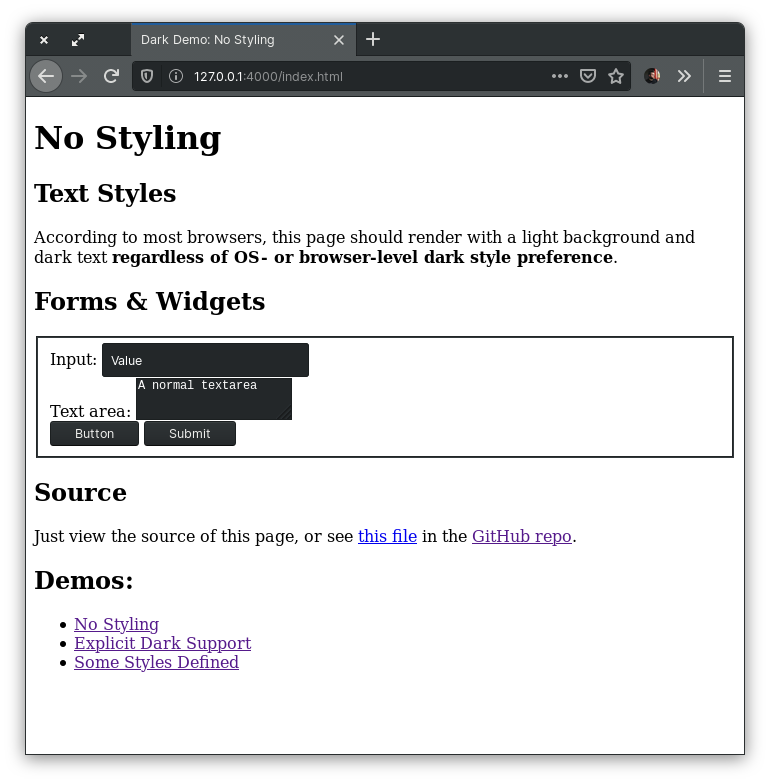
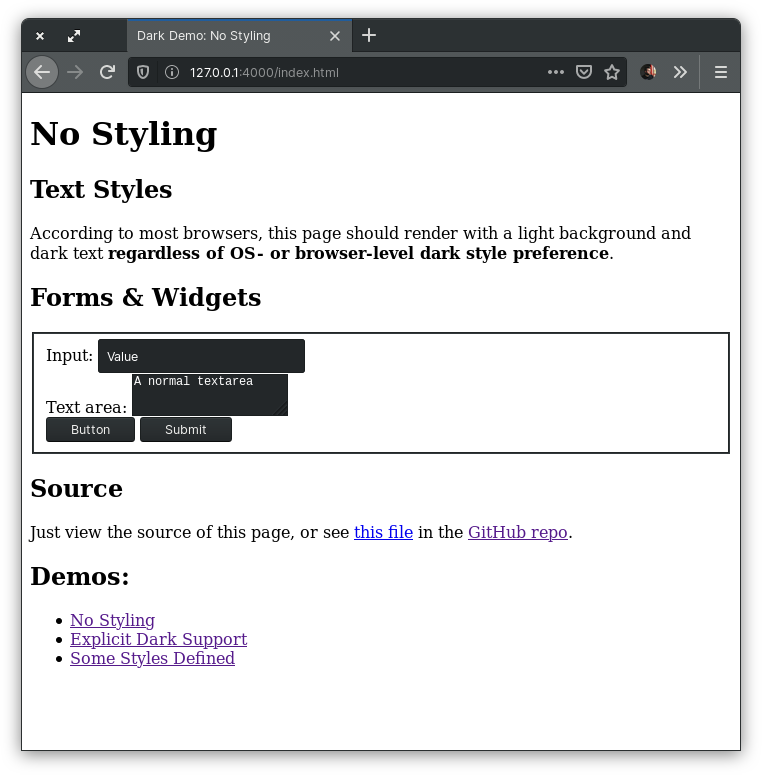
Add updated Firefox screenshots, update styling

Changed region(s): [[0.0302, 0.0, 0.9961, 0.991]]

diff --git a/_layouts/default.html b/_layouts/default.html
@@ -21,8 +21,16 @@
         width: calc(50% - 1em);
       }
 
+      img.mobile,
+      img.shadow {
+        border-radius: 0.2em;
+        border: 1px solid rgba(64, 64, 64, 0.5);
+        border-top-color: rgba(128, 128, 128, 0.5);
+        border-bottom-color: rgba(32, 32, 32, 0.5);
+        box-shadow: 0 0.25em 0.75em rgba(0, 0, 0, 0.5);
+      }
+
       img.mobile {
-        box-shadow: 0 0.25em 0.5em rgba(0, 0, 0, 0.5);
         max-width: 300px;
       }
 
@@ -63,8 +71,8 @@
     <img src="images/Firefox-Dark-{{ slug }}.png" alt="Firefox Linux Dark" />
 
     <h3>WebKitGTK on Linux:</h3>
-    <img src="images/Ephemeral-Light-{{ slug }}.png" alt="Ephemeral Linux Light" />
-    <img src="images/Ephemeral-Dark-{{ slug }}.png" alt="Ephemeral Linux Dark" />
+    <img class="shadow" src="images/Ephemeral-Light-{{ slug }}.png" alt="Ephemeral Linux Light" />
+    <img class="shadow" src="images/Ephemeral-Dark-{{ slug }}.png" alt="Ephemeral Linux Dark" />
 
     <h3>Chrome on Android:</h3>
     <img class="mobile" src="images/Chrome-Android-Light-{{ slug }}.png" alt="Chrome Android Light" />

diff --git a/dark.md b/dark.md
@@ -5,7 +5,7 @@ title: Explicit Dark Support
 <style>
 @media(prefers-color-scheme: dark) {
   body {
-    background: black;
+    background: #333;
     color: white;
   }
 
